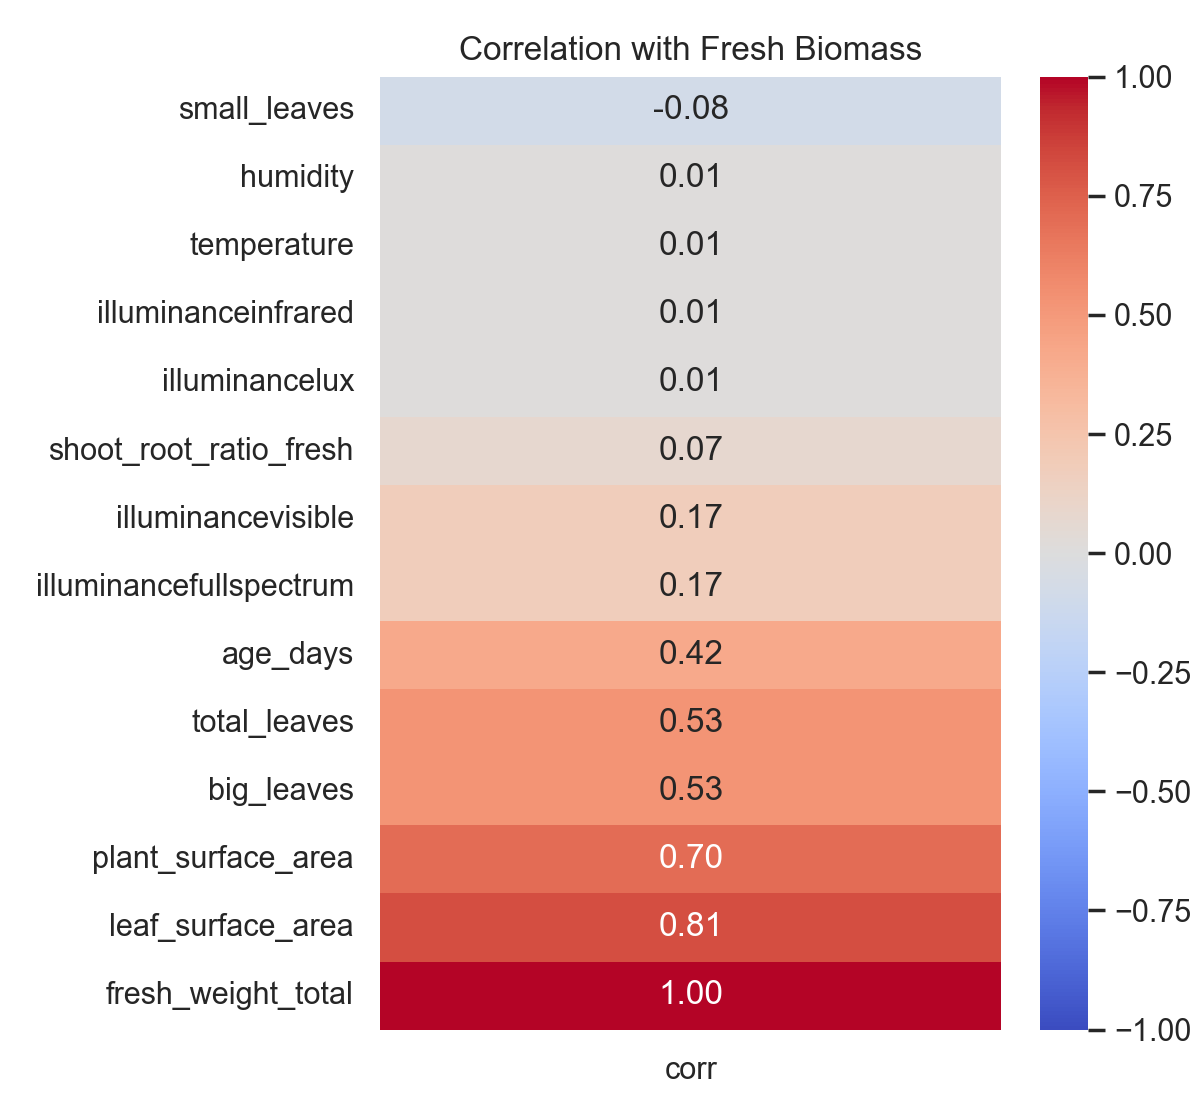
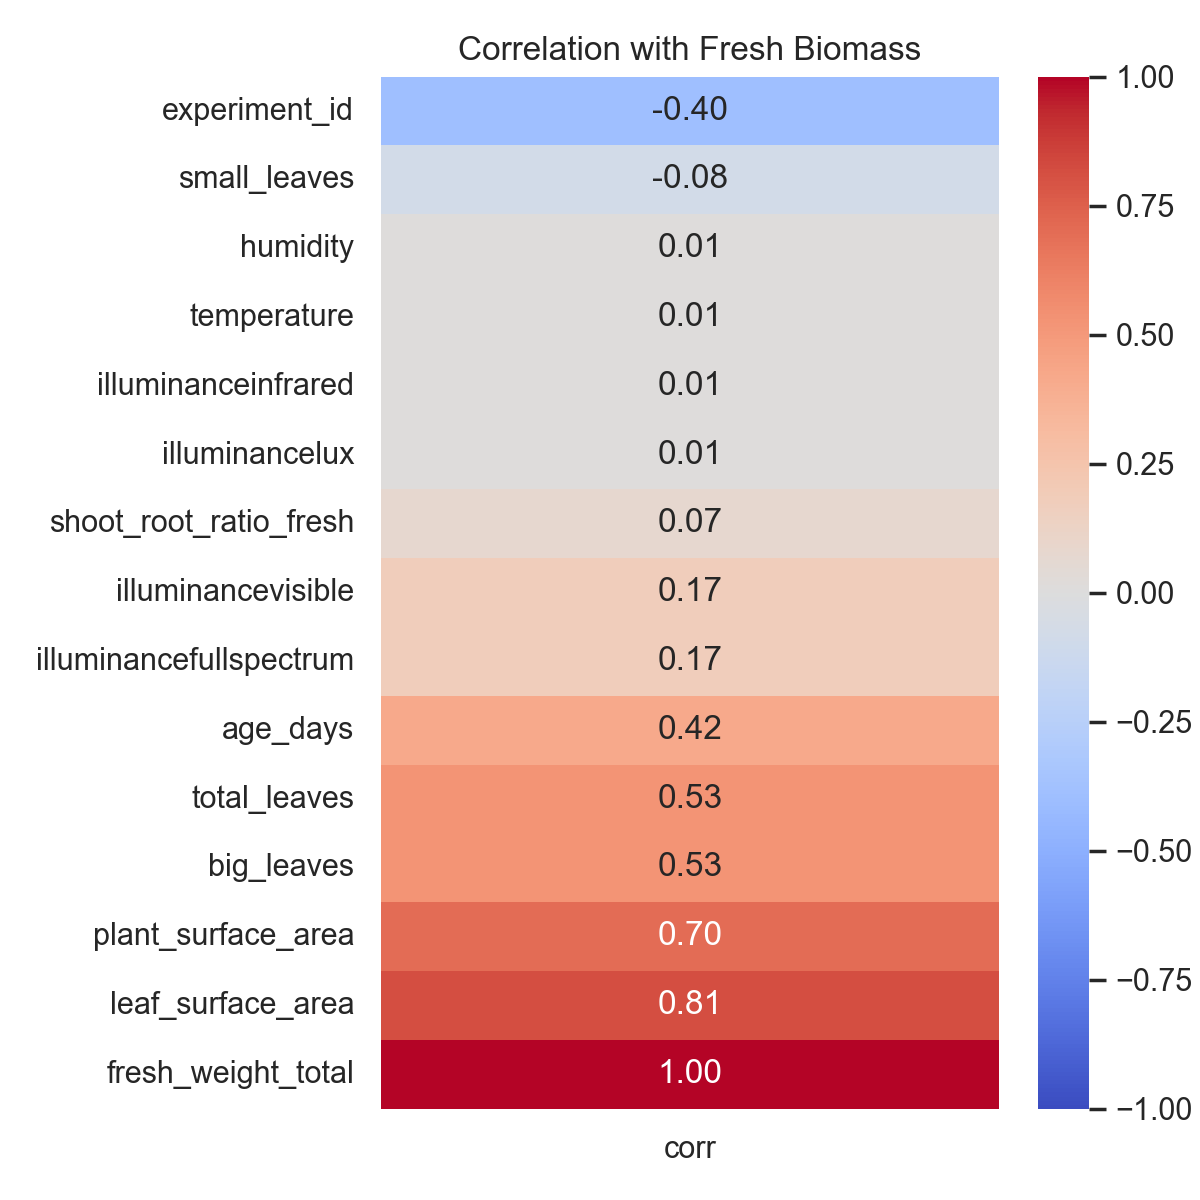
-adding experiment_id to correlation heatmap -use representative colors ind mean RGB plot

diff --git a/eda.py b/eda.py
@@ -91,6 +91,7 @@ def save_correlation_heatmap(df: pd.DataFrame) -> None:
         "plant_surface_area",
         "leaf_surface_area",
         "shoot_root_ratio_fresh",
+        "experiment_id", # it is not a numeric variable per se, but including it to see if any correlation exists
     ]
     available = [col for col in candidate_columns if col in df.columns]
     data = df[available + ["fresh_weight_total"]]
@@ -170,6 +171,7 @@ def save_pixel_analysis(df: pd.DataFrame, max_images: int = 500) -> None:
         fill=True,
         common_norm=False,
         alpha=0.35,
+        palette={"R": "red", "G": "green", "B": "blue"},
     )
     plt.title("Distribution of Mean RGB Intensities per Image")
     plt.xlabel("Mean channel intensity")

diff --git a/README.md b/README.md
@@ -46,7 +46,7 @@ Sampled views highlight heterogeneous backgrounds (soil moisture, trays), lighti
 
 ![Correlation heatmap](figures/correlation_heatmap.png)
 
-Leaf and plant surface area correlate most with biomass, but these measurements contain many missing values. Environmental readings (temperature, humidity, illuminance) show weak correlation, so the model should focus on visual cues.
+Leaf and plant surface area correlate most with biomass, but these measurements contain many missing values. Environmental readings (temperature, humidity, illuminance) show weak correlation, so the model should focus on visual cues. Also, the experiment_id has a stronger negative correlation. This feature should not be included in training, but it may be useful for obtaining heterogeneous training and test sets.
 
 ### 4. Biomass vs. Plant Age
 
